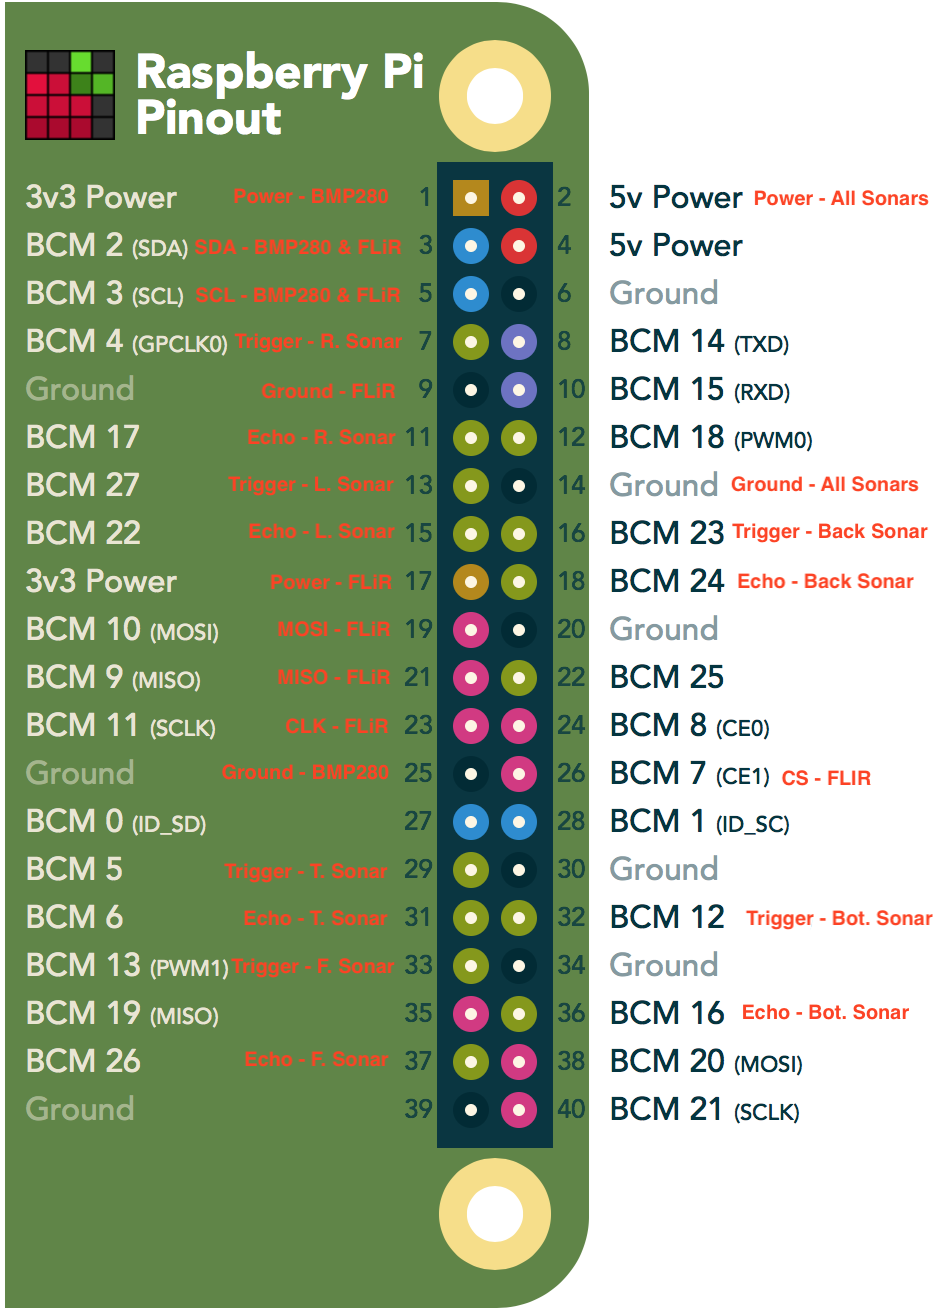
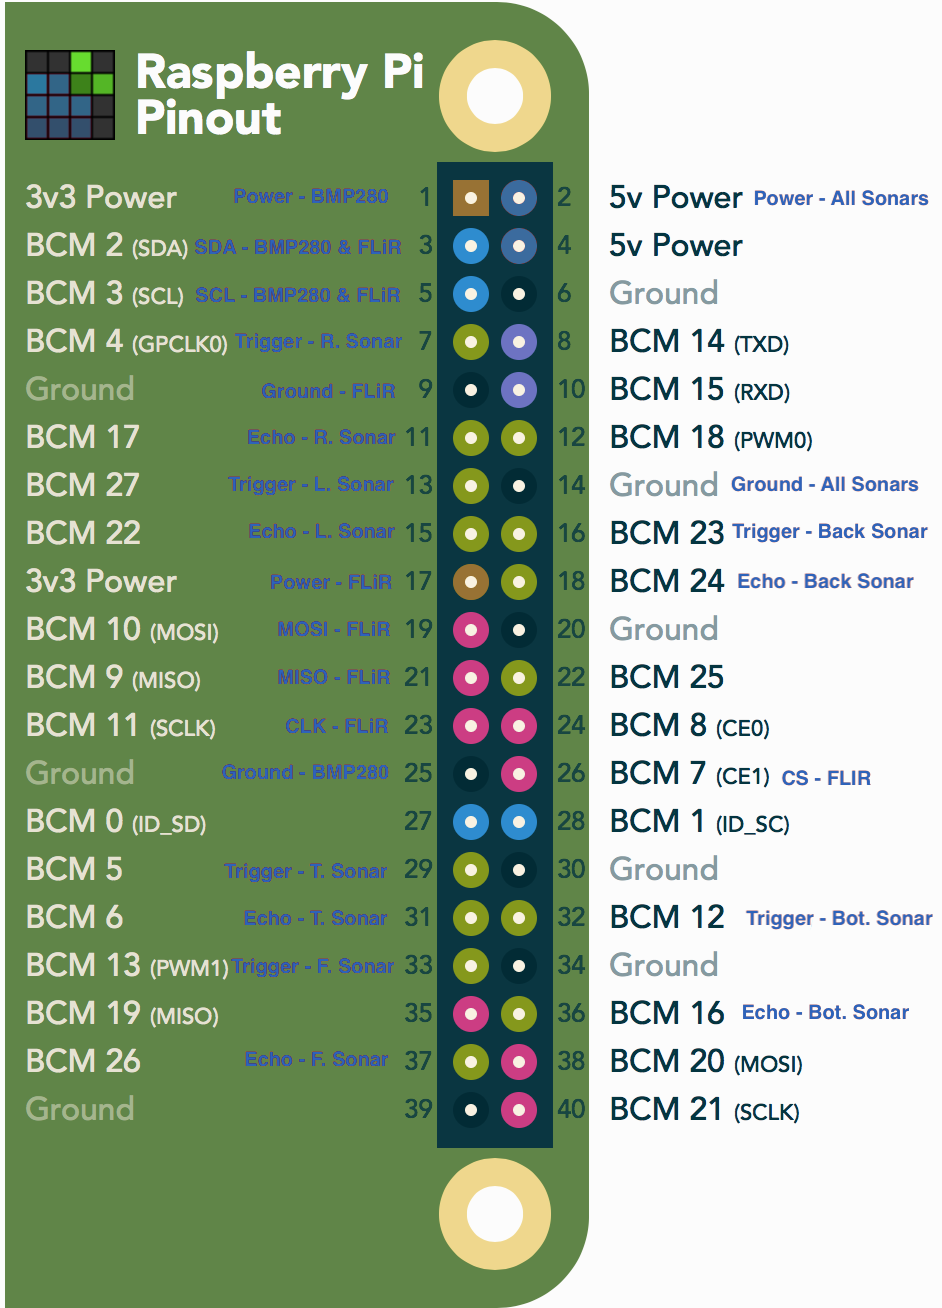
Added to README.md and improved GPIO pinout colors.

diff --git a/README.md b/README.md
@@ -63,7 +63,11 @@ This research project is conducted through the MIT Research Laboratory of Electr
 
    We considered five primary criteria when choosing which drone to purchase: assembly/configuration time, payload capacity, size, price, and programmability. Based on these criteria, we selected the 3DR Solo for this project. The 3DR Solo was the best choice mostly because it features a MAVlink Python library called "DroneKit-Python".
 
-### 3.2 Sensors
+### 3.2 Onboard Computer
+
+  We used the Raspberry Pi Zero W as the onboard computer for this project. It is extremely light but still has the 40 GPIO pins of a full-sized Raspberry Pi. Also, the "W" model comes with intergrated wifi and bluetooth which is exteremly useful. Finally, the price of a Raspberry Pi Zero W is only $10. The only downside is that the Raspberry Pi Zero models lacks the processing power of the Raspberry Pi 3 Model B. Future projects should test the Raspberry Pi 3 to see if the additional proccessing power is worth its weight, literally.
+
+### 3.3 Sensors
 
 The following sensors were used in this project:
 * 6 Sonars (SR-04)
@@ -72,7 +76,7 @@ The following sensors were used in this project:
 * 1 Thermal Camera (Lepton FLiR)
 
 
-### 3.3 Communication
+### 3.4 Communication
 
 ![communication](https://raw.githubusercontent.com/ArathornII/ThermalDrone/master/communication.jpg)
 
@@ -80,7 +84,7 @@ The following sensors were used in this project:
   
   The RPi inputs and processes the data from the 9 sensors, and then instructs the drone to take specific actions. These commands are sent from the RPi to the drone as MAVlink messages. These messages are transmitted via a wifi network broadcasted by the 3DR Solo's controller.
 
-### 3.4 Multiprocessing
+### 3.5 Multiprocessing
 
 ![multiprocessing](https://raw.githubusercontent.com/ArathornII/ThermalDrone/master/multiprocessing.jpg)
 
@@ -141,8 +145,24 @@ The following sensors were used in this project:
 
 ### 6.1 Configuring the Raspberry Pi
 
+  Configuring the Raspberry Pi is fairly simple. Please follow the directions below:
 
-#### 6.1.1 Raspberry Pi Pinout
+#### 6.1.1 Install Operating System
+
+  We will install **Raspbian Stretch Lite**, which means the Raspberry Pi will not use a GUI. Instead, you will communicate with the devie through the linux command line. To begin, [download](https://www.raspberrypi.org/downloads/raspbian/) the software and follow the [instructions](https://www.raspberrypi.org/documentation/installation/installing-images/README.md) on the Raspberry Pi website for your operating system.
+
+Then, insert your MicroSD card into the Raspberry Pi and boot-up the device with a **display, mouse, and keyboard attached**. The default username and password are "pi" and "raspberry" respectively. You should change the password, but the leave the username alone.  To change the password, use the command ```passwd```. You will need to authenticate the device, then enter your custom password as prompted.
+
+#### 6.1.2 Connect to Wifi
+
+Next, we will connect the Raspberry Pi to the internet. Please note that this step assumes you have a Raspberry Pi with an intergrated wifi module. Follow these [directions](https://www.raspberrypi.org/documentation/configuration/wireless/wireless-cli.md) and then restart the wifi interface with:
+```sudo wpa_cli reconfigure```
+
+#### 6.1.3 Enable Interfaces and Set the Timezone
+
+#### 6.1.4 Install Python Packages
+
+#### 6.1.5 Raspberry Pi Pinout
 
 ![raspberry-pi-pinout](https://raw.githubusercontent.com/ArathornII/ThermalDrone/master/pinout.png)
 
@@ -169,15 +189,15 @@ The current design uses a single Raspberry Pi Camera v2 to capture images in the
 
   The current design includes a single BME280 Temperature, Humidity, and Pressure sensor. The device is mounted on the bottom of the UAV, however, future experiments should be conducted to determine the optimal location for such a sensor considering the decrease in local temperature caused by the UAV's propellers.
   
-  * We will only connect four of the BME280's pins to the Raspberry Pi. Please reference the following list and the pinout in section 6.1.1:
+  We will only connect four of the BME280's pins to the Raspberry Pi. Please reference the following list and the pinout in section 6.1.1:
   * The 5V pin on the BME should connect to a 5V GPIO pin on the Raspberry Pi
   * The SDI pin on the BME should connect to a SDA GPIO pin on the Raspberry Pi
-  * The SCK pin on the BME should connect to a SCL GPIO pin on the Raspberry Pi.
+  * The SCK pin on the BME should connect to a **SCL** GPIO pin on the Raspberry Pi.
   * The Ground pin on the BME should connect to a Ground pin on the Raspberry Pi.
 
 #### 6.3.4 Thermal Camera
 
-The FLiR is mounted on the front of the UAV in close proximity to the Optical Camera in order to minimize the transformations needed to achieve thermal composite imaging.
+  The current design uses a Lepton FLiR to take thermal images of the UAV's surroundings and determine relative temperatures. The FLiR is mounted on the front of the UAV in close proximity to the Optical Camera in order to minimize the transformations needed to achieve thermal composite imaging. The camera itself is very small and incredibly delicate, so please be very careful when touching it. The camera module must be mounted in a breakout board which can then be connected to the Raspberry Pi. The FLiR module must be fully in the breakout board or it will not work properly. All 8 pins on the breakout board must connect to corresponding pins on the Raspberry Pi. The SDA and SCL pins should be wired in parallel to those from the BME280 and then connected to Raspberry Pi pins 3 and 5 respectively (see pinout).
 
 ## 7.0 Resources
 
